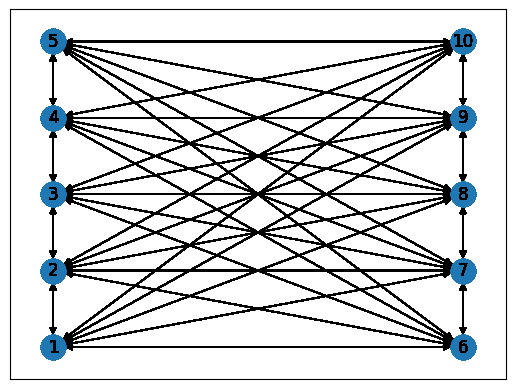
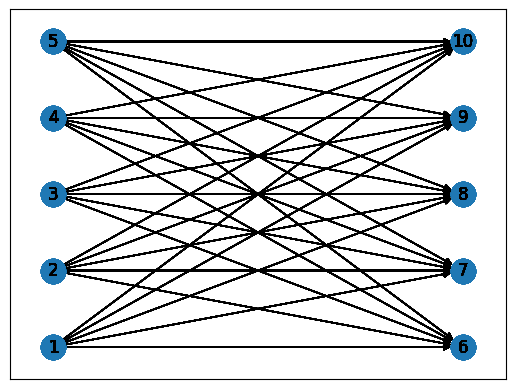
Alix s work on varying p(parameter of the matrix)

diff --git a/Bipartite_p_varying.py b/Bipartite_p_varying.py
@@ -25,7 +25,8 @@ from spectral_alg import spectual, cost
 ## Run the approximate bipartipe graph and the greedy algorithm a hundred times and save the results 
 M = 30 #number of run 
 nsize = 10 #size of the graph
-plist = [0.6,0.7,0.8,0.9,1]
+plist = [0]
+
 for p in plist:
     print(p)
 
